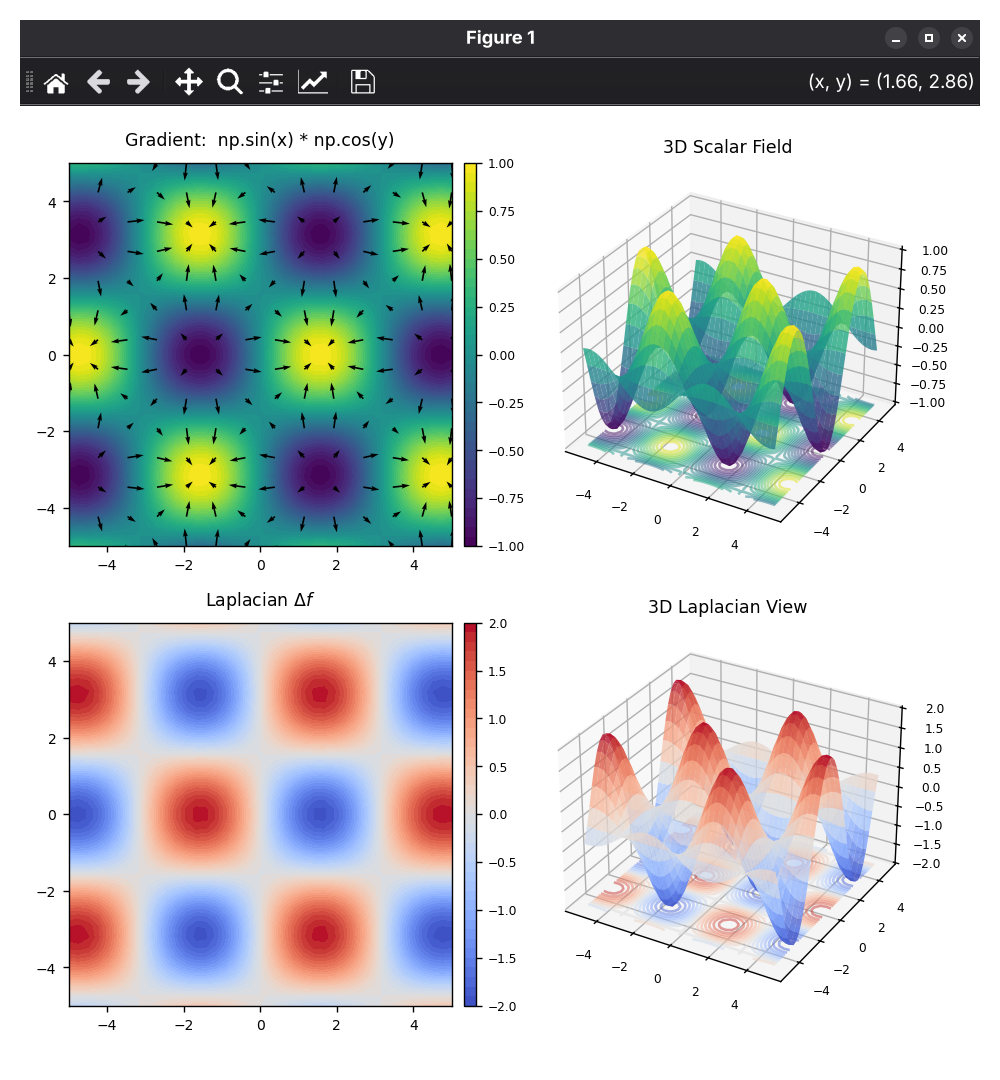
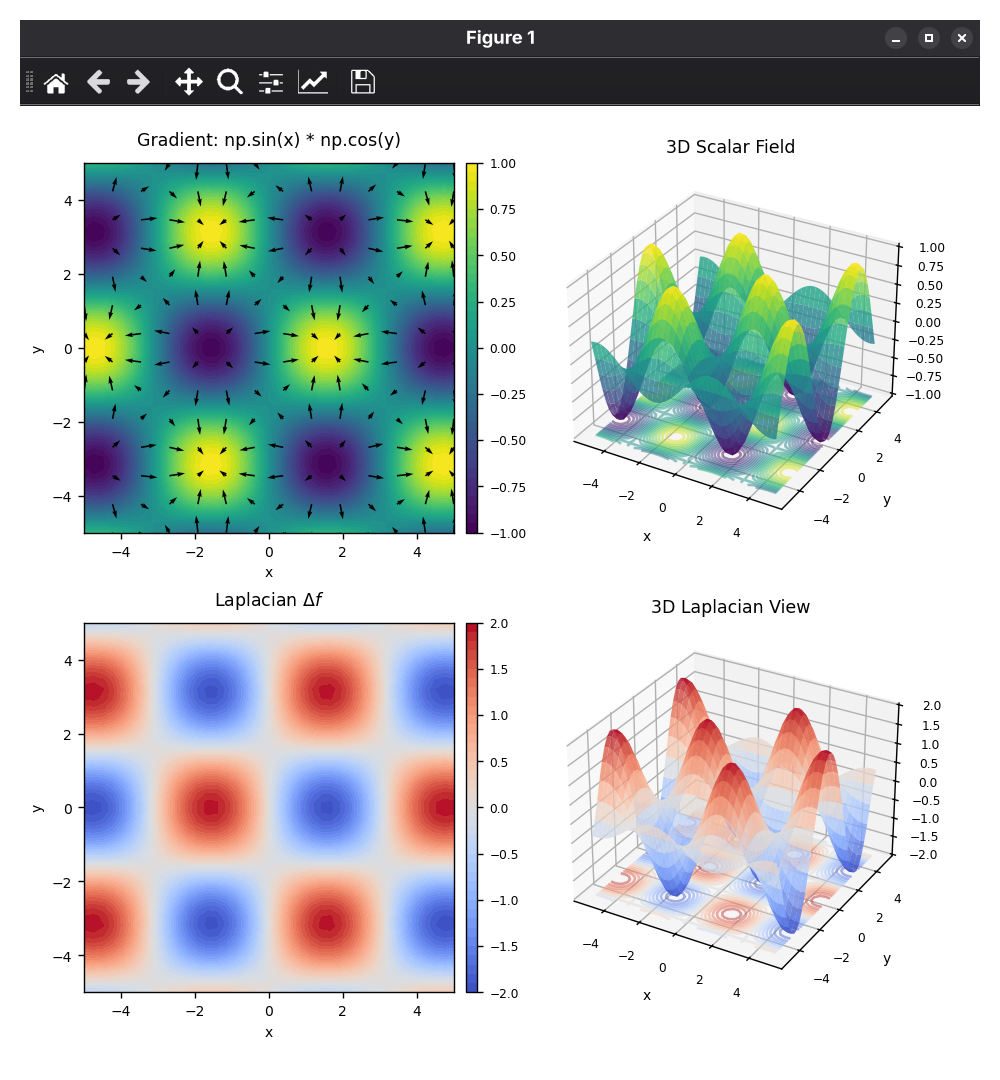
Add files via upload

diff --git a/scalar_function.py b/scalar_function.py
@@ -52,7 +52,8 @@ def format_2d(ax, data, title, cmap):
     ax.set_aspect('equal')
     ax.set_title(title, fontsize=10, pad=10)
     ax.tick_params(labelsize=8)
-    
+    ax.set_xlabel("x", fontsize=8)
+    ax.set_ylabel("y", fontsize=8)
     divider = make_axes_locatable(ax)
     cax = divider.append_axes("right", size="3%", pad=0.1)
     cb = fig.colorbar(im, cax=cax, ticks=ticks)
@@ -70,6 +71,8 @@ ax2.plot_surface(X, Y, Z, cmap='viridis', edgecolor='none', alpha=0.8)
 ax2.contour(X, Y, Z, levels=20, offset=np.min(Z), cmap='viridis', alpha=0.5)
 ax2.set_title("3D Scalar Field", fontsize=10)
 ax2.tick_params(labelsize=7)
+ax2.set_xlabel("x", fontsize=8)
+ax2.set_ylabel("y", fontsize=8)
 
 # 3) Laplacian (2D)
 ax3 = fig.add_subplot(2, 2, 3)
@@ -78,6 +81,8 @@ format_2d(ax3, laplacian, r"Laplacian $\Delta f$", 'coolwarm')
 # 4) Laplacian (3D)
 ax4 = fig.add_subplot(2, 2, 4, projection='3d')
 ax4.plot_surface(X, Y, laplacian, cmap='coolwarm', edgecolor='none', alpha=0.8)
+ax4.set_xlabel("x", fontsize=8)
+ax4.set_ylabel("y", fontsize=8)
 
 # Floor contours only if there is variation
 if not np.isclose(np.min(laplacian), np.max(laplacian)):
